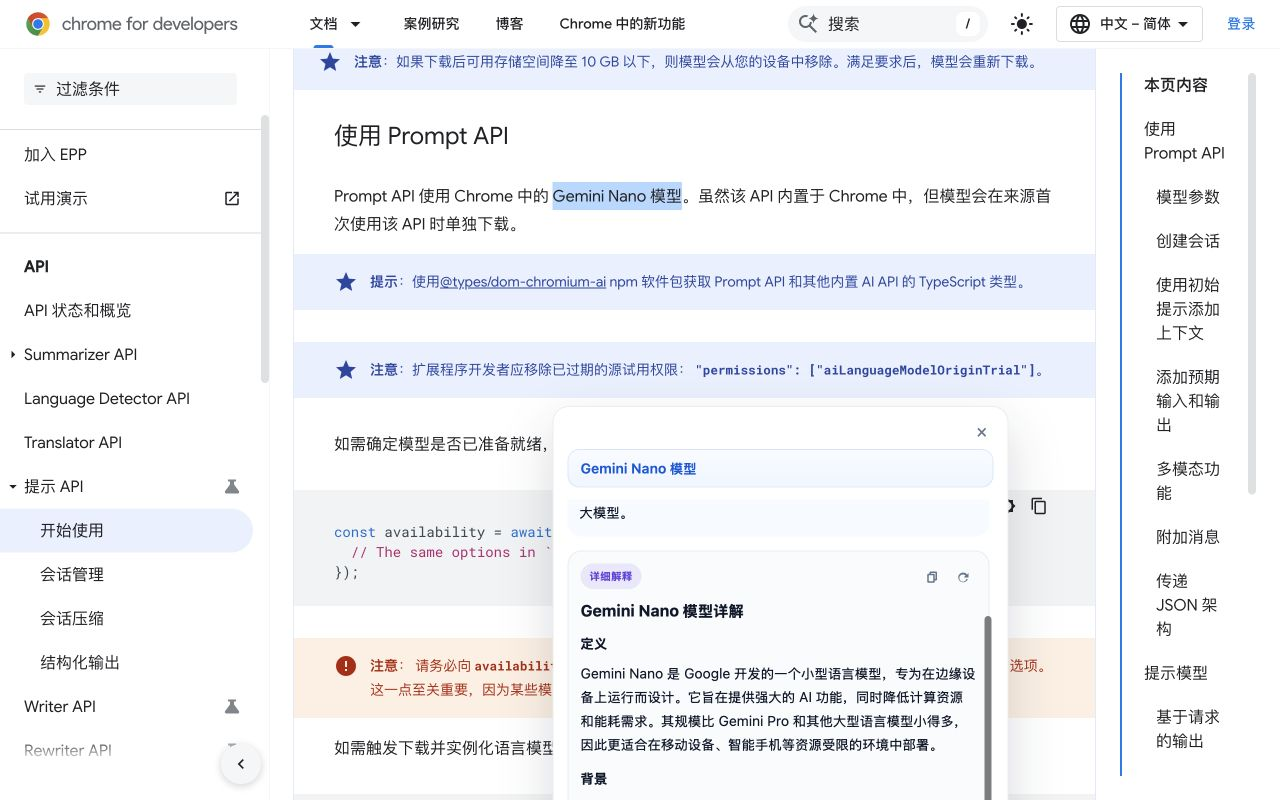
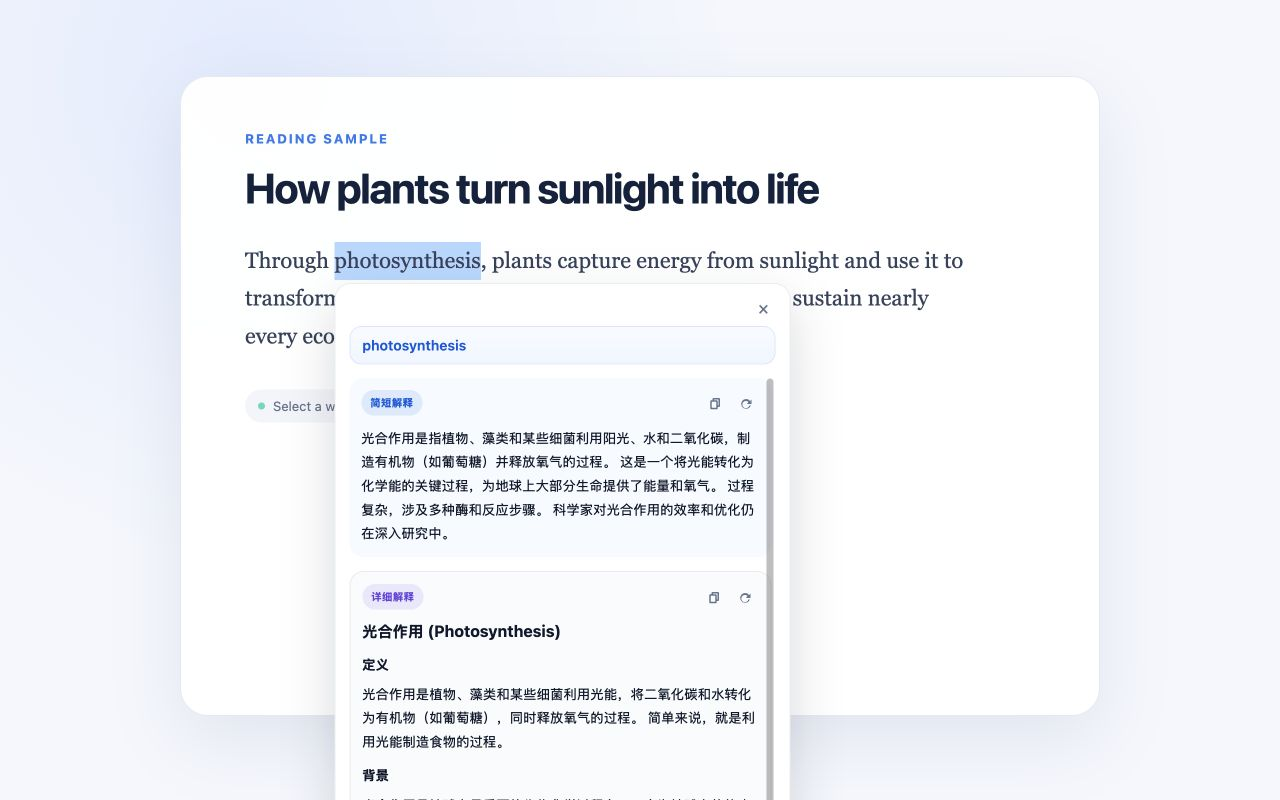
docs(store): simplify listing screenshot backdrop

diff --git a/docs/product/store-assets/screenshot-demo.html b/docs/product/store-assets/screenshot-demo.html
@@ -1,0 +1,102 @@
+<!doctype html>
+<html lang="en">
+  <head>
+    <meta charset="utf-8" />
+    <meta name="viewport" content="width=device-width, initial-scale=1" />
+    <title>Reading Sample</title>
+    <style>
+      :root {
+        color-scheme: light;
+        font-family: Inter, ui-sans-serif, -apple-system, BlinkMacSystemFont, "Segoe UI", sans-serif;
+        color: #172033;
+        background: #f4f7fc;
+      }
+
+      * {
+        box-sizing: border-box;
+      }
+
+      body {
+        min-height: 100vh;
+        margin: 0;
+        background:
+          radial-gradient(circle at 20% 10%, rgba(63, 119, 255, 0.1), transparent 30rem),
+          #f4f7fc;
+      }
+
+      main {
+        width: min(920px, calc(100% - 80px));
+        margin: 0 auto;
+        padding: 76px 0;
+      }
+
+      article {
+        min-height: 640px;
+        padding: 54px 64px;
+        border: 1px solid #e3e9f4;
+        border-radius: 28px;
+        background: rgba(255, 255, 255, 0.96);
+        box-shadow: 0 24px 70px rgba(40, 64, 120, 0.1);
+      }
+
+      .eyebrow {
+        margin: 0 0 18px;
+        color: #3973e8;
+        font-size: 13px;
+        font-weight: 750;
+        letter-spacing: 0.14em;
+        text-transform: uppercase;
+      }
+
+      h1 {
+        max-width: 680px;
+        margin: 0;
+        color: #14213d;
+        font-size: 42px;
+        line-height: 1.14;
+        letter-spacing: -0.035em;
+      }
+
+      .lead {
+        max-width: 720px;
+        margin: 30px 0 0;
+        color: #35415b;
+        font-family: Georgia, "Times New Roman", serif;
+        font-size: 22px;
+        line-height: 1.72;
+      }
+
+      .hint {
+        display: inline-flex;
+        align-items: center;
+        gap: 8px;
+        margin-top: 34px;
+        padding: 9px 13px;
+        border-radius: 999px;
+        color: #65718a;
+        background: #f2f5fa;
+        font-size: 13px;
+      }
+
+      .hint::before {
+        width: 7px;
+        height: 7px;
+        border-radius: 50%;
+        background: #43dcb8;
+        content: "";
+      }
+    </style>
+  </head>
+  <body>
+    <main>
+      <article>
+        <p class="eyebrow">Reading sample</p>
+        <h1>How plants turn sunlight into life</h1>
+        <p class="lead">
+          Through photosynthesis, plants capture energy from sunlight and use it to transform water and carbon dioxide into the sugars that sustain nearly every ecosystem on Earth.
+        </p>
+        <p class="hint">Select a word to understand it instantly</p>
+      </article>
+    </main>
+  </body>
+</html>

diff --git a/docs/product/release-candidate-0.2.5.md b/docs/product/release-candidate-0.2.5.md
@@ -9,5 +9,5 @@
 - 更新内容：依据选定概念图重新建立 SVG 矢量母版，并从高分辨率 SVG 渲染结果导出 16、32、48、128 px PNG
 - SVG 设计：单一复合路径构造白色圆环与气泡尾巴，避免布尔遮罩毛刺；采用蓝色双层渐变、白色轻渐变、薄荷色渐变和图形内阴影
 - 商店规范：128 px 画布中主体严格位于 96 px 区域，四周保留 16 px 透明留白；不包含文字、脚本、外链或外部资源
-- 商店主截图：`docs/product/store-assets/snapinsight-detail-1280x800.png`（1280×800 PNG，展示简短解释和详细解释）
+- 商店主截图：`docs/product/store-assets/snapinsight-detail-1280x800.png`（1280×800 PNG，在极简阅读测试页中展示完整选词、简短解释和详细解释）
 - 自动验证：SVG XML 结构通过；未包含文字、脚本、外链或嵌入资源；34 项测试、类型检查与生产构建通过；全部 PNG 为 RGBA 且四角完全透明
